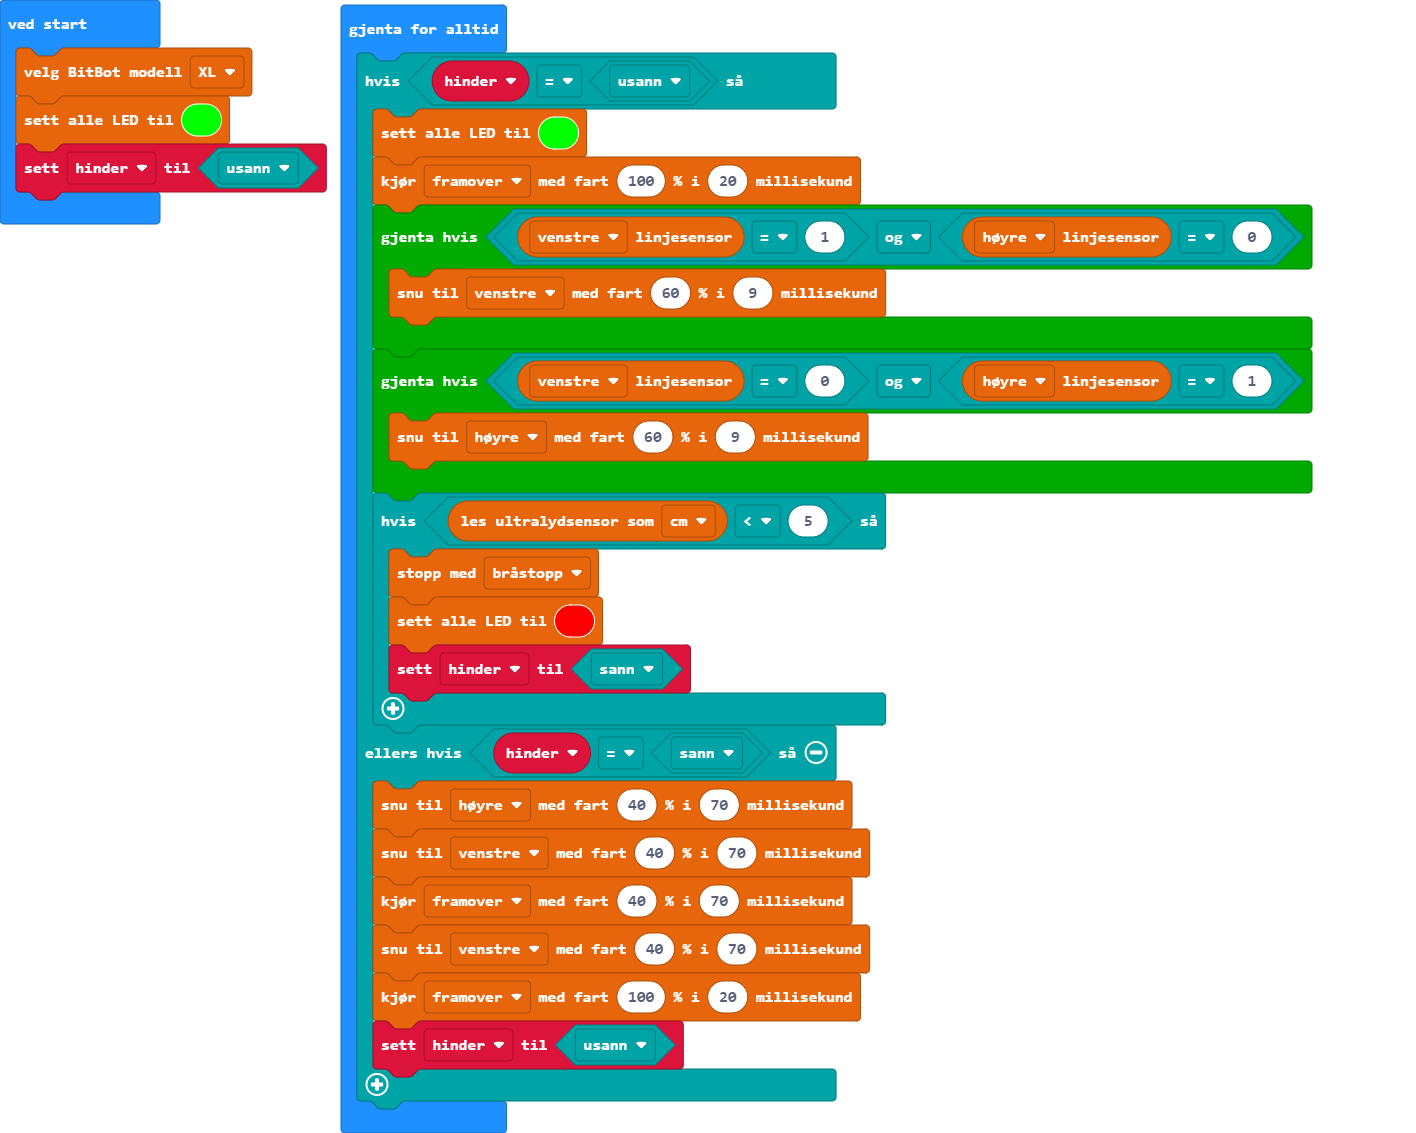
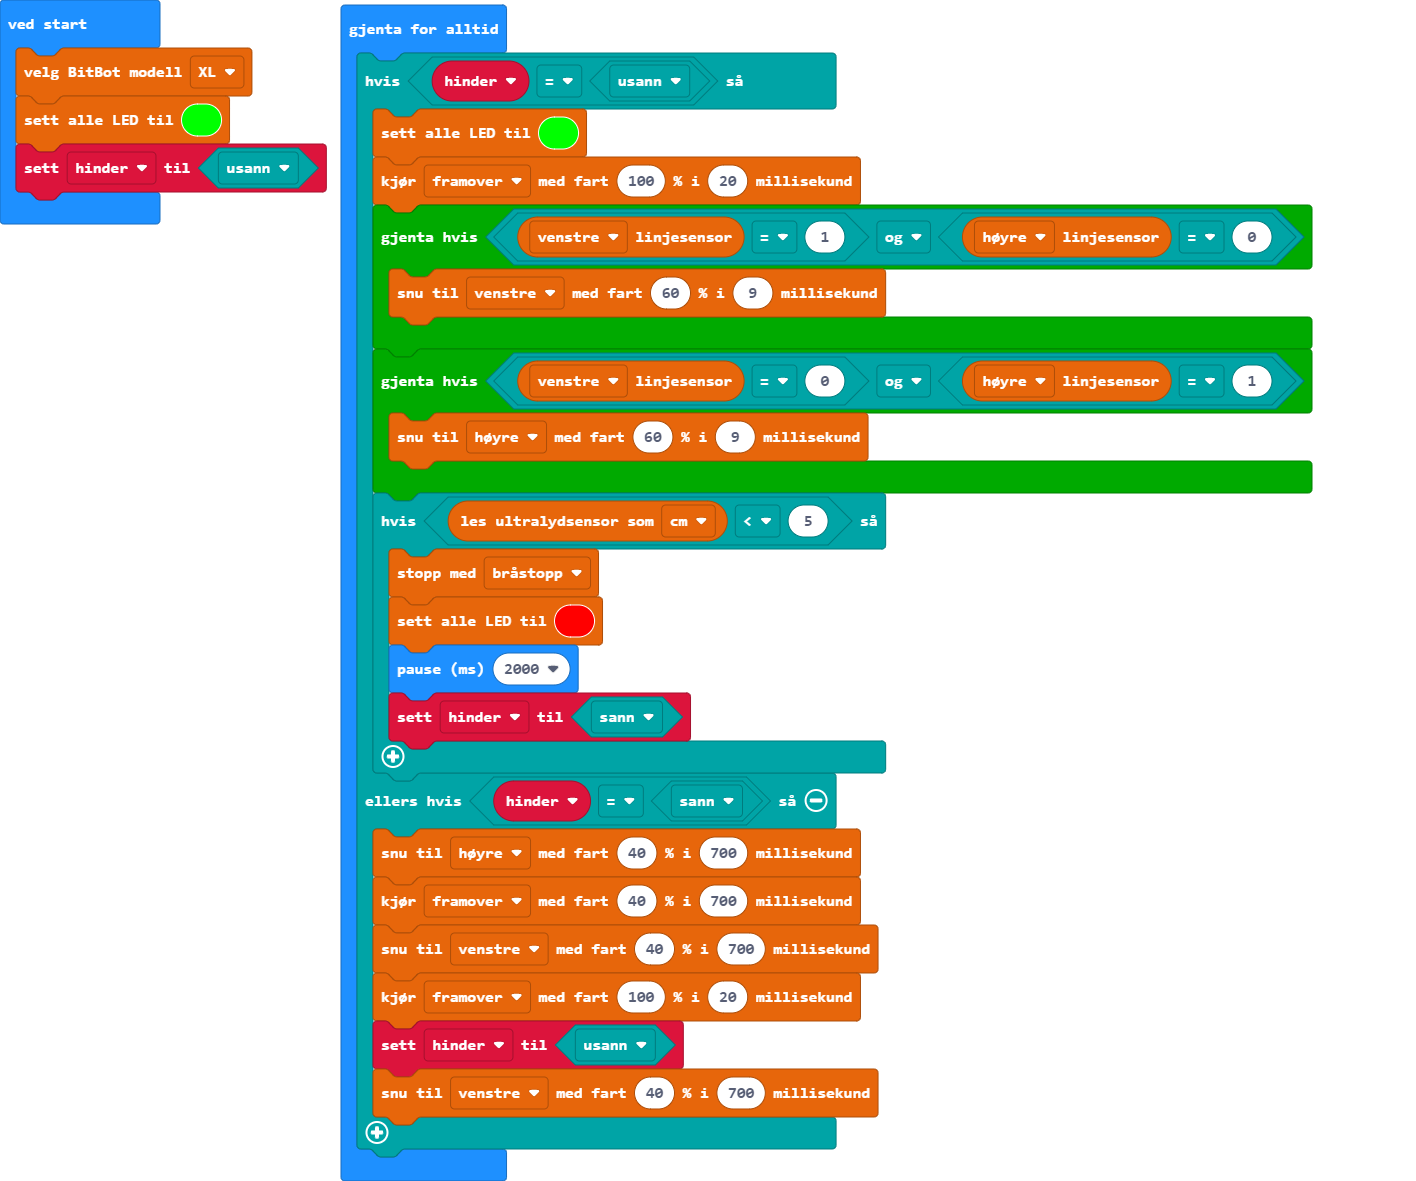
Oppdater main.blocks, main.ts

Changed region(s): [[0.0, 0.0, 0.9322, 0.9885], [0.404, 0.0309, 0.435, 0.0618]]

diff --git a/main.ts b/main.ts
@@ -14,14 +14,15 @@ basic.forever(function () {
         if (bitbot.sonar(BBPingUnit.Centimeters) < 5) {
             bitbot.stop(BBStopMode.Coast)
             bitbot.setLedColor(0xFF0000)
+            basic.pause(2000)
             hinder = true
         }
     } else if (hinder == true) {
-        bitbot.rotatems(BBRobotDirection.Right, 40, 70)
-        bitbot.rotatems(BBRobotDirection.Left, 40, 70)
-        bitbot.goms(BBDirection.Forward, 40, 70)
-        bitbot.rotatems(BBRobotDirection.Left, 40, 70)
+        bitbot.rotatems(BBRobotDirection.Right, 40, 700)
+        bitbot.goms(BBDirection.Forward, 40, 700)
+        bitbot.rotatems(BBRobotDirection.Left, 40, 700)
         bitbot.goms(BBDirection.Forward, 100, 20)
         hinder = false
+        bitbot.rotatems(BBRobotDirection.Left, 40, 700)
     }
 })
